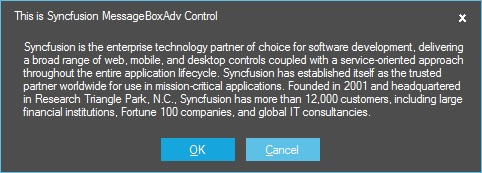
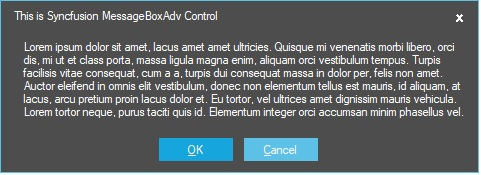
WF-34474 Need to standardize the UG documentation of MessageBoxAdv changes has been done and committed.

Changed region(s): [[0.0, 0.0, 1.0, 1.0], [0.3119, 0.7803, 0.6861, 0.9538], [0.0312, 0.0578, 0.4678, 0.1156]]

diff --git a/WindowsForms/MessageBoxAdv/MessageBoxAdv.md b/WindowsForms/MessageBoxAdv/MessageBoxAdv.md
@@ -1,8 +1,8 @@
 ---
 layout: post
-title: Feature | WindowsForms | Syncfusion
+title: Feature | Windows Forms | Syncfusion
 description: Feature
-platform: WindowsForms
+platform: Windows Forms
 control: MessageBoxAdv
 documentation: ug
 ---
@@ -11,7 +11,7 @@ documentation: ug
 
 This section explains all the design time feature of MessageBoxAdv.
 
-## Details Pane:
+## Details Pane
 
 This pane helps to view the detail message about the text shown in the MessageBoxAdv.
 
@@ -23,14 +23,14 @@ This pane helps to view the detail message about the text shown in the MessageBo
 
 //Details Pane
 
-result = MessageBoxAdv.Show(this, bdyText, CaptionText, MessageBoxButtons.OK, SelectedIcon, SelectedIcon.Size,"details");
+result = MessageBoxAdv.Show(this,"Hello World!", CaptionText, MessageBoxButtons.OK, SelectedIcon, SelectedIcon.Size,"details");
 {% endhighlight %}
 
 {% highlight VB %}
 
 'Details Pane
 
-result = MessageBoxAdv.Show(Me, bdyText, CaptionText, MessageBoxButtons.OK, SelectedIcon, SelectedIcon.Size,"details")
+result = MessageBoxAdv.Show(Me,"Hello World!", CaptionText, MessageBoxButtons.OK, SelectedIcon, SelectedIcon.Size,"details")
 
 {% endhighlight %}
 
@@ -44,7 +44,7 @@ Eg: Collapsed Pane
 
 ![](MessageBoxAdv_images/MessageBoxAdv_img19.jpg) 
 
-## Button Support:
+## Button Support
 
 By default, the MessageBox only has the one Ok button, but this can be changed, in case you want to ask your user a question and not just show a piece of information. Also notice how I use multiple lines in this message, by using a line break character (\n):
 You control which buttons are displayed by using a value from the **MessageBoxButtons** enumeration - in this case, a Yes, No and Cancel button is included. The following values, which should be self-explanatory, can be used:
@@ -234,19 +234,19 @@ MessageBoxAdv.Show("Metro Theme Customization", "This is Syncfusion MessageBoxAd
 
 ## MultiLineText Support
 
-MesssageBoxAdv provides MultiLine support to display the multiple lines of Text. It can be achieved using the Show method and multiple lines of text provided in it.
+MessageBoxAdv provides MultiLine support to display the multiple lines of Text. It can be achieved using the Show method and multiple lines of text provided in it.
 
 {% tabs %}
 
 {% highlight C# %}
 
-MessageBoxAdv.Show("Syncfusion is the enterprise technology partner of choice for software development, delivering a broad range of web, mobile, and desktop controls coupled with a service-oriented approach throughout the entire application lifecycle. Syncfusion has established itself as the trusted partner worldwide for use in mission-critical applications. Founded in 2001 and headquartered in Research Triangle Park, N.C., Syncfusion has more than 12,000 customers, including large financial institutions, Fortune 100 companies, and global IT consultancies.", "This is Syncfusion MessageBoxAdv Control", MessageBoxButtons.OKCancel);
+ MessageBoxAdv.Show("Lorem ipsum dolor sit amet, lacus amet amet ultricies. Quisque mi venenatis morbi libero, orci dis, mi ut et class porta, massa ligula magna enim, aliquam orci vestibulum tempus. Turpis facilisis vitae consequat, cum a a, turpis dui consequat massa in dolor per, felis non amet. Auctor eleifend in omnis elit vestibulum, donec non elementum tellus est mauris, id aliquam, at lacus, arcu pretium proin lacus dolor et. Eu tortor, vel ultrices amet dignissim mauris vehicula. Lorem tortor neque, purus taciti quis id. Elementum integer orci accumsan minim phasellus vel.", "This is Syncfusion MessageBoxAdv Control", MessageBoxButtons.OKCancel);
 
 {% endhighlight %}
 
 {% highlight VB %}
 
-MessageBoxAdv.Show("Syncfusion is the enterprise technology partner of choice for software development, delivering a broad range of web, mobile, and desktop controls coupled with a service-oriented approach throughout the entire application lifecycle. Syncfusion has established itself as the trusted partner worldwide for use in mission-critical applications. Founded in 2001 and headquartered in Research Triangle Park, N.C., Syncfusion has more than 12,000 customers, including large financial institutions, Fortune 100 companies, and global IT consultancies.", "This is Syncfusion MessageBoxAdv Control", MessageBoxButtons.OKCancel)
+ MessageBoxAdv.Show("Lorem ipsum dolor sit amet, lacus amet amet ultricies. Quisque mi venenatis morbi libero, orci dis, mi ut et class porta, massa ligula magna enim, aliquam orci vestibulum tempus. Turpis facilisis vitae consequat, cum a a, turpis dui consequat massa in dolor per, felis non amet. Auctor eleifend in omnis elit vestibulum, donec non elementum tellus est mauris, id aliquam, at lacus, arcu pretium proin lacus dolor et. Eu tortor, vel ultrices amet dignissim mauris vehicula. Lorem tortor neque, purus taciti quis id. Elementum integer orci accumsan minim phasellus vel.", "This is Syncfusion MessageBoxAdv Control", MessageBoxButtons.OKCancel)
 
 {% endhighlight %}
 
@@ -254,7 +254,7 @@ MessageBoxAdv.Show("Syncfusion is the enterprise technology partner of choice fo
  
 ![](MessageBoxAdv_images/MessageBoxAdv_img27.jpg) 
 
-## Right To left Support:
+## Right To left Support
 
 MessageBoxAdv support the RightToLeft support which aligns the content of the messageboxadv in right to left manner or Left to Right Manner.
 
@@ -278,7 +278,7 @@ MessageBoxAdv.Show("Right To Left support", "This is Syncfusion MessageBoxAdv Co
 
 ![](MessageBoxAdv_images/MessageBoxAdv_img28.jpg) 
 
-## Dialog Result:
+## Dialog Result
 
 This support helps to display the result of the MessageBoxButton .
 
@@ -308,7 +308,7 @@ DlgRtTxtBox.Text = CustomButtons(clickedIndex - 1)
 
 ![](MessageBoxAdv_images/MessageBoxAdv_img30.jpg) 
 
-## Localization Support:
+## Localization Support
 
 Localization is the process of making application multilingual by formatting the content according to the cultures. MessageBoxAdv control can be localized in any Languages, based on application requirement by following below steps.
 

diff --git a/WindowsForms/MessageBoxAdv/Getting-Started.md b/WindowsForms/MessageBoxAdv/Getting-Started.md
@@ -1,8 +1,8 @@
 ---
 layout: post
-title: Getting-Started | WindowsForms | Syncfusion
+title: Getting-Started | Windows Forms | Syncfusion
 description: Getting Started
-platform: WindowsForms
+platform: Windows Forms
 control: MessageBoxAdv
 documentation: ug
 ---
@@ -10,7 +10,7 @@ documentation: ug
 # Getting Started
 
 This session explains about how to implement a window popup using the MessageBoxAdv. The Syncfusion control can be added using the following Syncfusion Assemblies as follows:
-1)	Create a WindowsForms project in visual studio and add the following Syncfusion assembly as follows:
+1)	Create a Windows Forms project in Visual Studio and add the following Syncfusion assembly as follows:
 
     * Syncfusion.Shared.Base.dll
 

diff --git a/WindowsForms/MessageBoxAdv/Overview.md b/WindowsForms/MessageBoxAdv/Overview.md
@@ -7,7 +7,7 @@ control: MessageBoxAdv
 documentation: ug
 ---
 
-# Overview:
+# Overview
 
 Syncfusion MessageBoxAdv supports an application-defined message and title, plus any combination of predefined icons and buttons.
 MessageBoxAdv provides some of the features such as:
